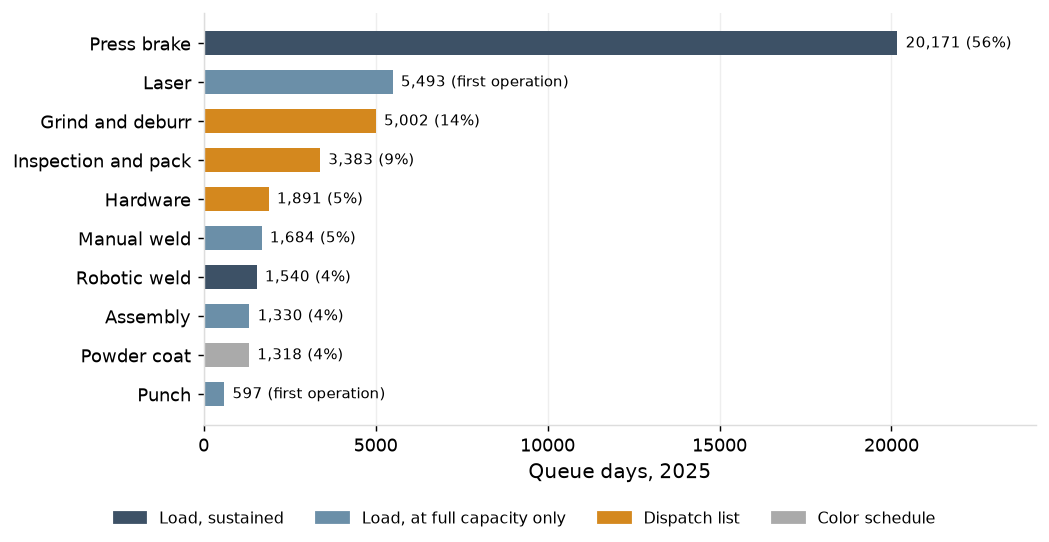
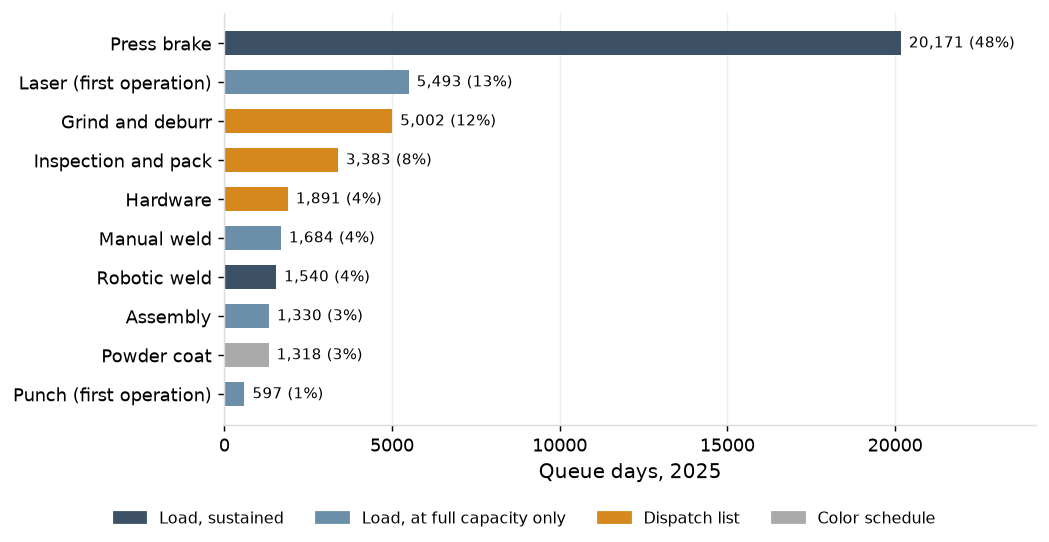
Capacity report: queue time per operation by work center; queue days counted at all ten work centers; Section 1 retitled

diff --git a/docs/reports/capacity_constraints_and_setups.html b/docs/reports/capacity_constraints_and_setups.html
@@ -55,8 +55,8 @@ nav.toc a.sub { font-size: 12px; padding-left: 22px; }
 @media print { nav.toc { display: none; } .layout { display: block; max-width: none; padding: 0; } .content { max-width: none; padding: 0; } }
 </style></head>
 <body><div class="page-header"><h1>Report: Capacity, Constraints and Setups</h1><div class="sub">Created by Brian Davis, 2026</div></div>
-<div class="layout"><nav class="toc"><div class="toc-title">Contents</div><a href="#f1">1. Capacity Across the Shop</a><a href="#f2">2. Load and Queue Time</a><a href="#f3">3. Brake Hours: Setups, Standards and the Peak</a><a href="#appendix">Appendix</a></nav>
-<main class="content"><h2 id='f1'>1. Capacity Across the Shop</h2>
+<div class="layout"><nav class="toc"><div class="toc-title">Contents</div><a href="#f1">1. Capacity and Constraints</a><a href="#f2">2. Load and Queue Time</a><a href="#f3">3. Brake Hours: Setups, Standards and the Peak</a><a href="#appendix">Appendix</a></nav>
+<main class="content"><h2 id='f1'>1. Capacity and Constraints</h2>
 <p>The shop's floor consists of 25 machines across ten work centers. The press brakes are the busiest, with 16,268 machine hours in 2025 (36% of total). Machine hours break into operations per day and hours per operation, shown in routing order below.</p>
 <div class='chart-title'>Daily Floor Activity by Work Center, 2025</div><img alt="Daily Floor Activity by Work Center, 2025" src="../figures/capacity_floor_activity.png?v=b2993651">
 <p>The press brakes consistently run at the highest utilization of any work center (average of 83% 2023-2025), followed by the robotic weld cell (71%). Across all work centers, average utilization increased from 62% in 2023 to 75% in 2025 as released work grew 20% (4,315 to 5,157 jobs a year; brake standard hours up 21%) across the same set of machines and shifts.</p>
@@ -66,17 +66,19 @@ nav.toc a.sub { font-size: 12px; padding-left: 22px; }
 <div class='chart-title'>Utilization and Machine Uptime by Work Center</div><img alt="Utilization and Machine Uptime by Work Center" src="../figures/constraint_utilization_uptime.png?v=348d825a">
 <p>With so little buffer, an ordinary heavy week can take the brakes and the weld cell to maximum utilization: they ran at or above 95% utilization in 46% and 38% of weeks in 2025, far more often than any other work center. Average queue time rises sharply when a work center is operating near maximum utilization. This is explored in more detail in Section 2. See Appendix Table <a href='#t2'>2</a> for additional detail.</p>
 <div class='chart-title'>Share of weeks at or above 95% utilization, 2025</div><img alt="Share of weeks at or above 95% utilization, 2025" src="../figures/capacity_hot_week_share.png?v=5980e1e8">
-<div class='chart-title'>Queue Time in Weeks at or Above 95% Utilization vs. Other Weeks, 2023 to 2025</div><img alt="Queue Time in Weeks at or Above 95% Utilization vs. Other Weeks, 2023 to 2025" src="../figures/capacity_queue_in_hot_weeks_year.png?v=3f459c1b">
-<p>Throughout 2025, jobs spent 36,318 days waiting in queue at a work center (excluding first operations at the lasers and the punch). The press brake station accounted for 56% of those days, which is a function of its consistently high utilization, as well as its volume of operations. There were 5,692 press brake operations in 2025 (20% of total). The robotic weld cell, which also ran at high utilization, accounted for less than 5% of queue days, because only 423 operations (1.5% of total) passed through it.</p>
-<div class='chart-title'>Share of queue days by work center, 2025</div><img alt="Share of queue days by work center, 2025" src="../figures/capacity_share_of_queue_days.png?v=c9f86cef">
-<p>The press brakes are therefore the shop's primary constraint on three counts: the highest utilization with the least buffer, the most weeks spent at maximum utilization, and more than half of all queue days. The robotic weld cell shares the first two and constrains the enclosure work that crosses it. These stations are examined in more detail throughout this report.</p>
+<div class='chart-title'>Queue Time in Weeks at or Above 95% Utilization vs. Other Weeks</div><img alt="Queue Time in Weeks at or Above 95% Utilization vs. Other Weeks" src="../figures/capacity_queue_in_hot_weeks_year.png?v=3f459c1b">
+<p>Throughout 2025, jobs spent 42,408 days waiting in queue at a work center. The press brake station accounted for 48% of those days, which is a function of its consistently high utilization, as well as its volume of operations. There were 5,692 press brake operations in 2025 (20% of total). The robotic weld cell, which also ran at high utilization, accounted for less than 5% of queue days, because only 423 operations (1.5% of total) passed through it.</p>
+<div class='chart-title'>Share of queue days by work center, 2025</div><img alt="Share of queue days by work center, 2025" src="../figures/capacity_share_of_queue_days.png?v=2bf239e9">
+<p>The press brakes are therefore the shop's primary constraint on three counts: the highest utilization with the least buffer, the most weeks spent at maximum utilization, and nearly half of all queue days. The robotic weld cell shares the first two and constrains the enclosure work that crosses it. These stations are examined in more detail throughout this report.</p>
 <h2 id='f2'>2. Load and Queue Time</h2>
+<p>A job's wait at a work center is set in one of three ways, and the shape of the wait shows which: load-set waits at the brakes and the robotic weld cell have long tails, list-set waits at grind and deburr, inspection and pack and hardware are tight around the next morning, and the rest fall between.</p>
+<div class='chart-title'>Queue Time per Operation by Work Center and What Sets the Wait, 2025</div><img alt="Queue Time per Operation by Work Center and What Sets the Wait, 2025" src="../figures/capacity_queue_time_shape.png?v=8d64ebbc">
 <p>At each station, average queue time was sharply higher when it was operating near maximum utilization compared to the other weeks of the year. The gap is smallest at the press brakes (2.4 days against 1.7, 1.4x) not because their wait is least sensitive to load but because their other weeks are also heavily loaded, so the comparison is narrower than other work centers. This section lays out the sensitivity of queue time against load at the press brakes and robotic weld stations.</p>
 <p><a href='#f1'>Section 1</a> showed that queue time rises when a work center is full and that the press brakes and the robotic weld cell are the two that are full most often and carry the waiting that costs the shop days. This section shows how queue time builds at each as load rises, and what that makes the lever. The curve is the queue time expected at each level of utilization for the number of machines at the work center, fitted on rolling 13-week windows from 2023 to 2025 and drawn only over the range of utilization the work center has run at in those windows; for the brakes the fit explains 45% of the variation in the windowed queue with a rank correlation of 0.88, while a single week's queue carries the backlog of the weeks before it, which is why the fit is made on windows rather than weeks.</p>
 <h3 id='f2_1'>The press brakes</h3>
 <p>On the fitted curve the brake queue time is 0.67 days per operation at 75% utilization, 1.51 at 85%, 2.61 at 90% and 3.44 at 92%; the measured queue time is 3.54 at 91% for the year and 1.81 at 91% in Q2-Q4. Week by week, the brake queue time steps from about 0.5 days below 85% utilization to 2.7 above it and does not settle back. The brake queue time's 90th percentile was 17.1 and 9.1 days in Q1 and Q2 2025 and 2.8 and 3.0 in Q3 and Q4; under 5 days in every quarter is the mark the levers in this report are measured against. See Appendix Tables <a href='#t3'>3</a>, <a href='#t4'>4</a> and <a href='#t5'>5</a> for additional detail.</p>
 <div class='chart-title'>Queue Time Against Utilization: Press brake (5 machines), 2023 to 2025</div><img alt="Queue Time Against Utilization: Press brake (5 machines), 2023 to 2025" src="../figures/capacity_queue_curve_press_brake.png?v=47c2d662">
-<p>The brakes run at 91% and carry 56% of all queue time (<a href='lead_time_and_late_jobs.html'>Flow and On-time Delivery</a>). B1 and B2 run at 92.2% and 91.9% for the year and 93.7% and 93.7% in Q2-Q4, with the shortest queue times of the five (mean 2.7 and 2.8 days): precision work goes to them first and the hot list sends expedited work to them. B3 to B5 carry the tail: mean 3.7 to 4.1 days and 90th percentile 11.6 to 12.7. Over all hours worked, B5 carries the highest load of the five for the year; in Q2-Q4 B1 and B2 do. On crewed weekday shifts only, B1 and B2 run at 96.6% and 96.3% for the year. See Appendix Tables <a href='#t6'>6</a> and <a href='#t7'>7</a> for additional detail.</p>
+<p>The brakes run at 91% and carry 48% of all queue days. B1 and B2 run at 92.2% and 91.9% for the year and 93.7% and 93.7% in Q2-Q4, with the shortest queue times of the five (mean 2.7 and 2.8 days): precision work goes to them first and the hot list sends expedited work to them. B3 to B5 carry the tail: mean 3.7 to 4.1 days and 90th percentile 11.6 to 12.7. Over all hours worked, B5 carries the highest load of the five for the year; in Q2-Q4 B1 and B2 do. On crewed weekday shifts only, B1 and B2 run at 96.6% and 96.3% for the year. See Appendix Tables <a href='#t6'>6</a> and <a href='#t7'>7</a> for additional detail.</p>
 <div class='chart-title'>Utilization and Queue Time by Brake, 2025</div><img alt="Utilization and Queue Time by Brake, 2025" src="../figures/capacity_utilization_and_queue_by_brake.png?v=2c53b46a">
 <p>The brake queue carries over from week to week because arrivals are uneven and run times vary: daily arrivals have a coefficient of variation of 0.50, Mondays bring 1.77 times the daily mean and the top customer's month-end 1.73 times, and run time per operation varies far more than setup time (coefficient of variation 2.14 against 0.89). Second-shift absence is 7% against 3% on first shift. See Appendix Tables <a href='#t8'>8</a> and <a href='#t9'>9</a> for additional detail.</p>
 <h3 id='f2_2'>The robotic weld cell</h3>
@@ -84,8 +86,8 @@ nav.toc a.sub { font-size: 12px; padding-left: 22px; }
 <div class='chart-title'>Queue Time Against Utilization: Robotic weld (1 machine), 2023 to 2025</div><img alt="Queue Time Against Utilization: Robotic weld (1 machine), 2023 to 2025" src="../figures/capacity_queue_curve_robotic_weld.png?v=6113122f">
 <p>Enclosures are 78% of its hours, weldments 10% and chassis 6%. Its setups run at 1.03 of standard and its run time at 1.06, so the cell's queue is load, not standards. See Appendix Table <a href='#t10'>10</a> for additional detail.</p>
 <h3 id='f2_3'>The other work centers</h3>
-<p>The other work centers hold 40% of queue days between them, and the wait at each is set in one of three ways. At grind and deburr, inspection and pack and hardware (28% of queue days) the wait does not change with load; it is set by the daily dispatch list. At assembly, the manual weld bays and the punch (8% of queue days at the first two; the punch is a first operation and outside that count) the wait is flat until the machines are full and steps up only then (Table 3), which they reach in 11, 3 and 10 weeks of 52; the lasers behave the same way and reach full load only at the year-end build (Flow and On-time Delivery). At the powder line (4% of queue days) the wait is the color schedule. See Appendix Tables <a href='#t11'>11</a>, <a href='#t12'>12</a>, <a href='#t13'>13</a> and <a href='#t14'>14</a> for additional detail.</p>
-<div class='chart-title'>Queue Days by Work Center and What Sets the Wait, 2025</div><img alt="Queue Days by Work Center and What Sets the Wait, 2025" src="../figures/capacity_queue_days_by_kind.png?v=fea5d7a2"><div class='caption'>Shares are of the 36,318 queue days after the first operation; the lasers' and the punch's first-operation queue days are shown beside them and are not in that total.</div>
+<p>The other work centers hold 49% of queue days between them, and the wait at each is set in one of three ways. At grind and deburr, inspection and pack and hardware (24% of queue days) the wait does not change with load; it is set by the daily dispatch list. At assembly, the manual weld bays and the punch (9% of queue days) the wait is flat until the machines are full and steps up only then (Table 3), which they reach in 11, 3 and 10 weeks of 52; the lasers (13% of queue days) behave the same way and reach full load only at the year-end build (<a href='lead_time_and_late_jobs.html'>Flow and On-time Delivery</a>). At the powder line (3% of queue days) the wait is the color schedule. See Appendix Tables <a href='#t11'>11</a>, <a href='#t12'>12</a>, <a href='#t13'>13</a> and <a href='#t14'>14</a> for additional detail.</p>
+<div class='chart-title'>Queue Days by Work Center and What Sets the Wait, 2025</div><img alt="Queue Days by Work Center and What Sets the Wait, 2025" src="../figures/capacity_queue_days_by_kind.png?v=22a0666b"><div class='caption'>The lasers' and the punch's queue days are those of their first operations.</div>
 <p>At the three dispatch-list work centers, whether an operation starts the day it arrives depends on the hour of arrival and not on how busy the work center is. Work arriving before 10:00 starts the same day nine times in ten; work arriving between 10:00 and 14:00, half of all arrivals, starts the same day about three times in ten and otherwise waits for the next morning; the 24% arriving after the shift ends always waits. The brakes show no such break. These next-day starts add 1.3 working days of lead time to a shipped job (1.4 in Q2-Q4). See Appendix Table <a href='#t15'>15</a> for additional detail.</p>
 <div class='chart-title'>Same-Day Start by Hour of Arrival, Dispatch-List Work Centers Against the Brakes, 2025</div><img alt="Same-Day Start by Hour of Arrival, Dispatch-List Work Centers Against the Brakes, 2025" src="../figures/capacity_same_day_start.png?v=a8342cec">
 <p>The powder line's wait is 1.03 days per operation for the color day, 1.8 to 1.9 days for the three colors run once a week; a third day for black was tested in <a href='options_tested.html'>Options Tested</a> and does not move on-time delivery. See Appendix Table <a href='#t16'>16</a> for additional detail.</p>
@@ -130,7 +132,7 @@ nav.toc a.sub { font-size: 12px; padding-left: 22px; }
 <h3 id='t8'>Table 8. Variability sources, 2025</h3><table class="data"><thead><tr><th>Source</th><th>Measure</th><th>Value, 2025</th></tr></thead><tbody><tr><td class="">Arrivals: jobs released per working day</td><td class="">coefficient of variation</td><td class="">0.50</td></tr><tr><td class="">Arrivals: Monday releases over the daily mean</td><td class="">ratio</td><td class="">1.77</td></tr><tr><td class="">Arrivals: top customer, last three working days of the month over its daily mean</td><td class="">ratio</td><td class="">1.73</td></tr><tr><td class="">Arrivals: releases per week</td><td class="">coefficient of variation</td><td class="">0.22</td></tr><tr><td class="">Brake setup time per operation (hours)</td><td class="">coefficient of variation</td><td class="">0.89</td></tr><tr><td class="">Brake setup actual over standard</td><td class="">coefficient of variation</td><td class="">0.90</td></tr><tr><td class="">Brake run time per operation (hours)</td><td class="">coefficient of variation</td><td class="">2.14</td></tr><tr><td class="">Brake setup and run per operation (hours)</td><td class="">coefficient of variation</td><td class="">1.38</td></tr><tr><td class="">Brake downtime hours per week</td><td class="">coefficient of variation</td><td class="">0.57</td></tr><tr><td class="">Brake downtime hours per event</td><td class="">coefficient of variation</td><td class="">0.47</td></tr><tr><td class="">Brake downtime share of scheduled hours</td><td class="">share</td><td class="">0.03</td></tr><tr><td class="">Absence, first shift: share of scheduled employee-days</td><td class="">share</td><td class="">0.03</td></tr><tr><td class="">Absence, first shift: daily rate</td><td class="">coefficient of variation</td><td class="">0.55</td></tr><tr><td class="">Absence, second shift: share of scheduled employee-days</td><td class="">share</td><td class="">0.07</td></tr><tr><td class="">Absence, second shift: daily rate</td><td class="">coefficient of variation</td><td class="">1.18</td></tr></tbody></table>
 <h3 id='t9'>Table 9. Brake queue time with the spread of setup time halved, and the inputs</h3><table class="data"><thead><tr><th>Period</th><th>Brake utilization</th><th>Queue time on the curve</th><th>Queue time with setup spread halved</th><th>Utilization giving the same queue time</th><th>Brake hours a week released</th></tr></thead><tbody><tr><td class="">2025</td><td class="">91.2%</td><td class="">3.08</td><td class="">2.98</td><td class="">91.5%</td><td class="">0.8</td></tr><tr><td class="">2025 Q2-Q4</td><td class="">90.8%</td><td class="">2.91</td><td class="">2.81</td><td class="">91.1%</td><td class="">0.9</td></tr></tbody></table><table class="data"><thead><tr><th>Input</th><th>Value</th></tr></thead><tbody><tr><td class="">Setup time per operation, coefficient of variation</td><td class="">0.95</td></tr><tr><td class="">Setup and run per operation, squared coefficient of variation</td><td class="">1.91</td></tr><tr><td class="">The same with setup spread halved</td><td class="">1.77</td></tr><tr><td class="">Daily arrivals at the brakes, variance over mean</td><td class="">2.16</td></tr><tr><td class="">Curve scale k</td><td class="">1.692</td></tr><tr><td class="">Curve scale with setup spread halved</td><td class="">1.635</td></tr><tr><td class="">Setup share of brake hours</td><td class="">37.2%</td></tr><tr><td class="">Scheduled brake hours a week net of downtime</td><td class="">343</td></tr></tbody></table>
 <h3 id='t10'>Table 10. The robotic weld cell: weeks by utilization band, hours by part family, setup and run against standard</h3><p><b>Weeks by utilization band, 2025</b></p><table class="data"><thead><tr><th>Utilization in the week</th><th>Weeks</th><th>Of which full five-day weeks</th><th>Operations</th><th>Queue time</th></tr></thead><tbody><tr><td class="">below 80%</td><td class="">18</td><td class="">17</td><td class="">142</td><td class="">1.78</td></tr><tr><td class="">80% to 85%</td><td class="">6</td><td class="">6</td><td class="">55</td><td class="">3.28</td></tr><tr><td class="">85% to 90%</td><td class="">6</td><td class="">6</td><td class="">65</td><td class="">5.17</td></tr><tr><td class="">90% to 95%</td><td class="">2</td><td class="">2</td><td class="">14</td><td class="">2.02</td></tr><tr><td class="">at or above 95%</td><td class="">20</td><td class="">15</td><td class="">147</td><td class="">5.05</td></tr></tbody></table><p><b>Hours by part family, 2025</b></p><table class="data"><thead><tr><th>Part family</th><th>Operations</th><th>Machine hours</th><th>Share of hours</th><th>Queue time</th></tr></thead><tbody><tr><td class="">Enclosure</td><td class="">309</td><td class="">1,255</td><td class="">78%</td><td class="">3.46</td></tr><tr><td class="">Weldment</td><td class="">58</td><td class="">158</td><td class="">10%</td><td class="">3.48</td></tr><tr><td class="">Chassis</td><td class="">27</td><td class="">100</td><td class="">6%</td><td class="">4.00</td></tr><tr><td class="">Assembly</td><td class="">18</td><td class="">57</td><td class="">4%</td><td class="">4.96</td></tr><tr><td class="">Panel</td><td class="">4</td><td class="">24</td><td class="">2%</td><td class="">5.58</td></tr><tr><td class="">Bracket</td><td class="">7</td><td class="">13</td><td class="">1%</td><td class="">6.86</td></tr></tbody></table><p><b>Setup and run against standard, 2025</b></p><table class="data"><thead><tr><th></th><th>Hours</th><th>Standard hours</th><th>Hours over standard</th></tr></thead><tbody><tr><td class="">Setup</td><td class="">503</td><td class="">487</td><td class="">1.03</td></tr><tr><td class="">Run</td><td class="">1,104</td><td class="">1,046</td><td class="">1.06</td></tr></tbody></table>
-<h3 id='t11'>Table 11. Queue days by work center and what sets the wait, 2025</h3><table class="data"><thead><tr><th>Work center</th><th>What sets the wait</th><th>Operations after the first</th><th>Queue days</th><th>Share</th></tr></thead><tbody><tr><td class="">Press brake</td><td class="">Load, sustained</td><td class="">5,692</td><td class="">20,171</td><td class="">56%</td></tr><tr><td class="">Grind and deburr</td><td class="">Dispatch list</td><td class="">5,680</td><td class="">5,002</td><td class="">14%</td></tr><tr><td class="">Inspection and pack</td><td class="">Dispatch list</td><td class="">5,241</td><td class="">3,383</td><td class="">9%</td></tr><tr><td class="">Hardware</td><td class="">Dispatch list</td><td class="">2,167</td><td class="">1,891</td><td class="">5%</td></tr><tr><td class="">Manual weld</td><td class="">Load, at full capacity only</td><td class="">1,568</td><td class="">1,684</td><td class="">5%</td></tr><tr><td class="">Robotic weld</td><td class="">Load, sustained</td><td class="">423</td><td class="">1,540</td><td class="">4%</td></tr><tr><td class="">Assembly</td><td class="">Load, at full capacity only</td><td class="">695</td><td class="">1,330</td><td class="">4%</td></tr><tr><td class="">Powder coat</td><td class="">Color schedule</td><td class="">2,367</td><td class="">1,318</td><td class="">4%</td></tr><tr><td class="">All</td><td class=""></td><td class="">23,833</td><td class="">36,318</td><td class="">100%</td></tr></tbody></table><p><b>First operations, outside the count above</b></p><table class="data"><thead><tr><th>Work center</th><th>What sets the wait</th><th>First-operation queue days</th></tr></thead><tbody><tr><td class="">Laser</td><td class="">Load, at full capacity only</td><td class="">5,493</td></tr><tr><td class="">Punch</td><td class="">Load, at full capacity only</td><td class="">597</td></tr></tbody></table>
+<h3 id='t11'>Table 11. Queue days by work center and what sets the wait, 2025</h3><table class="data"><thead><tr><th>Work center</th><th>What sets the wait</th><th>Operations</th><th>Queue days</th><th>Share</th></tr></thead><tbody><tr><td class="">Press brake</td><td class="">Load, sustained</td><td class="">5,692</td><td class="">20,171</td><td class="">48%</td></tr><tr><td class="">Laser (first operation)</td><td class="">Load, at full capacity only</td><td class="">4,378</td><td class="">5,493</td><td class="">13%</td></tr><tr><td class="">Grind and deburr</td><td class="">Dispatch list</td><td class="">5,680</td><td class="">5,002</td><td class="">12%</td></tr><tr><td class="">Inspection and pack</td><td class="">Dispatch list</td><td class="">5,241</td><td class="">3,383</td><td class="">8%</td></tr><tr><td class="">Hardware</td><td class="">Dispatch list</td><td class="">2,167</td><td class="">1,891</td><td class="">4%</td></tr><tr><td class="">Manual weld</td><td class="">Load, at full capacity only</td><td class="">1,568</td><td class="">1,684</td><td class="">4%</td></tr><tr><td class="">Robotic weld</td><td class="">Load, sustained</td><td class="">423</td><td class="">1,540</td><td class="">4%</td></tr><tr><td class="">Assembly</td><td class="">Load, at full capacity only</td><td class="">695</td><td class="">1,330</td><td class="">3%</td></tr><tr><td class="">Powder coat</td><td class="">Color schedule</td><td class="">2,367</td><td class="">1,318</td><td class="">3%</td></tr><tr><td class="">Punch (first operation)</td><td class="">Load, at full capacity only</td><td class="">820</td><td class="">597</td><td class="">1%</td></tr><tr><td class="">All</td><td class=""></td><td class=""></td><td class="">42,408</td><td class="">100%</td></tr></tbody></table>
 <h3 id='t12'>Table 12. Assembly: hot weeks, where its work comes from, and the weekly correlations</h3><p><b>By year</b></p><table class="data"><thead><tr><th>Year</th><th>Utilization</th><th>Queue time</th><th>Weeks at or above 95%</th><th>Operations</th></tr></thead><tbody><tr><td class="">2023*</td><td class="">52%</td><td class="">1.28</td><td class="">0 of 51</td><td class="">546</td></tr><tr><td class="">2024</td><td class="">60%</td><td class="">1.05</td><td class="">9 of 52</td><td class="">576</td></tr><tr><td class="">2025</td><td class="">69%</td><td class="">1.91</td><td class="">11 of 52</td><td class="">695</td></tr></tbody></table><p>* 2023 includes the first four weeks of the record, when jobs already in process raise the queue time; from the week of January 30 the 2023 queue time is 0.85 days per operation.</p><p><b>Weeks at or above 95% against the other weeks, 2025</b></p><table class="data"><thead><tr><th></th><th>Weeks at or above 95%</th><th>Other weeks</th></tr></thead><tbody><tr><td class="">Weeks</td><td class="">11</td><td class="">41</td></tr><tr><td class="">Utilization</td><td class="">99%</td><td class="">61%</td></tr><tr><td class="">Queue time</td><td class="">4.35</td><td class="">1.09</td></tr><tr><td class="">Arrivals a week</td><td class="">14.5</td><td class="">12.8</td></tr><tr><td class="">Arrivals a week on jobs routed through the robotic weld cell</td><td class="">2.7</td><td class="">2.1</td></tr><tr><td class="">Robotic weld cell share of arrivals</td><td class="">19%</td><td class="">16%</td></tr><tr><td class="">Machine hours per operation</td><td class="">4.37</td><td class="">3.62</td></tr></tbody></table><p><b>Where assembly's work comes from, 2025</b></p><table class="data"><thead><tr><th>Weld on the job's routing</th><th>Operations</th><th>Share of assembly hours</th><th>Queue time</th><th>90th percentile</th></tr></thead><tbody><tr><td class="">No weld</td><td class="">375</td><td class="">56%</td><td class="">2.23</td><td class="">6.7</td></tr><tr><td class="">Manual weld bays</td><td class="">203</td><td class="">31%</td><td class="">1.48</td><td class="">3.9</td></tr><tr><td class="">Robotic weld cell</td><td class="">117</td><td class="">13%</td><td class="">1.64</td><td class="">5.5</td></tr></tbody></table><table class="data"><thead><tr><th>Operation before assembly</th><th>Share of assembly operations</th></tr></thead><tbody><tr><td class="">Powder coat</td><td class="">47%</td></tr><tr><td class="">Outside processing</td><td class="">25%</td></tr><tr><td class="">Grind and deburr</td><td class="">15%</td></tr><tr><td class="">Press brake</td><td class="">9%</td></tr><tr><td class="">Hardware</td><td class="">5%</td></tr></tbody></table><p><b>Hours by part family, 2025</b></p><table class="data"><thead><tr><th>Part family</th><th>Operations</th><th>Machine hours</th><th>Share of hours</th></tr></thead><tbody><tr><td class="">Assembly</td><td class="">531</td><td class="">2,100</td><td class="">79%</td></tr><tr><td class="">Enclosure</td><td class="">164</td><td class="">547</td><td class="">21%</td></tr></tbody></table><p><b>Weekly correlations</b></p><table class="data"><thead><tr><th>Across the weeks of 2025</th><th>Correlation</th></tr></thead><tbody><tr><td class="">Assembly utilization and assembly queue</td><td class="">0.64</td></tr><tr><td class="">Assembly utilization and arrivals in the week</td><td class="">0.45</td></tr><tr><td class="">Assembly utilization and arrivals from robotic weld routings</td><td class="">0.24</td></tr><tr><td class="">Assembly utilization and robotic weld cell hours, same week</td><td class="">-0.11</td></tr><tr><td class="">The same, robotic weld cell hours one week earlier</td><td class="">-0.04</td></tr><tr><td class="">The same, two weeks earlier</td><td class="">0.02</td></tr></tbody></table>
 <h3 id='t13'>Table 13. Laser weeks, November and December 2024</h3><table class="data"><thead><tr><th>Week starting</th><th>Working weekdays</th><th>Laser utilization</th><th>First operations started</th><th>First-operation queue time, mean</th><th>90th percentile</th></tr></thead><tbody><tr><td class="">2024-11-04</td><td class="">5</td><td class="">73%</td><td class="">82</td><td class="">0.56</td><td class="">1.8</td></tr><tr><td class="">2024-11-11</td><td class="">5</td><td class="">98%</td><td class="">62</td><td class="">1.90</td><td class="">4.6</td></tr><tr><td class="">2024-11-18</td><td class="">5</td><td class="">95%</td><td class="">114</td><td class="">2.54</td><td class="">6.4</td></tr><tr><td class="">2024-11-25</td><td class="">3</td><td class="">93%</td><td class="">27</td><td class="">1.37</td><td class="">5.6</td></tr><tr><td class="">2024-12-02</td><td class="">5</td><td class="">89%</td><td class="">126</td><td class="">3.96</td><td class="">10.3</td></tr><tr><td class="">2024-12-09</td><td class="">5</td><td class="">94%</td><td class="">107</td><td class="">2.85</td><td class="">7.9</td></tr><tr><td class="">2024-12-16</td><td class="">5</td><td class="">84%</td><td class="">113</td><td class="">4.95</td><td class="">13.6</td></tr></tbody></table>
 <h3 id='t14'>Table 14. The lasers: first-operation queue time and material wait by month, and the three machines</h3><p><b>By month, 2025</b></p><table class="data"><thead><tr><th>Month of the first cut</th><th>First operations</th><th>First-operation queue time, mean</th><th>90th percentile</th><th>Material wait, mean</th><th>First operations with a material wait</th><th>Laser utilization</th></tr></thead><tbody><tr><td class="">January</td><td class="">458</td><td class="">4.67</td><td class="">14.2</td><td class="">1.12</td><td class="">39%</td><td class="">72%</td></tr><tr><td class="">February</td><td class="">386</td><td class="">0.93</td><td class="">3.0</td><td class="">1.00</td><td class="">35%</td><td class="">80%</td></tr><tr><td class="">March</td><td class="">337</td><td class="">0.70</td><td class="">2.2</td><td class="">1.08</td><td class="">39%</td><td class="">69%</td></tr><tr><td class="">April</td><td class="">343</td><td class="">0.90</td><td class="">2.7</td><td class="">0.76</td><td class="">30%</td><td class="">68%</td></tr><tr><td class="">May</td><td class="">381</td><td class="">0.86</td><td class="">2.4</td><td class="">0.74</td><td class="">37%</td><td class="">73%</td></tr><tr><td class="">June</td><td class="">349</td><td class="">0.61</td><td class="">2.0</td><td class="">0.76</td><td class="">34%</td><td class="">65%</td></tr><tr><td class="">July</td><td class="">319</td><td class="">0.85</td><td class="">2.8</td><td class="">1.09</td><td class="">42%</td><td class="">67%</td></tr><tr><td class="">August</td><td class="">326</td><td class="">1.31</td><td class="">4.3</td><td class="">0.81</td><td class="">33%</td><td class="">81%</td></tr><tr><td class="">September</td><td class="">380</td><td class="">0.83</td><td class="">2.4</td><td class="">0.83</td><td class="">37%</td><td class="">75%</td></tr><tr><td class="">October</td><td class="">408</td><td class="">0.62</td><td class="">1.7</td><td class="">0.80</td><td class="">34%</td><td class="">72%</td></tr><tr><td class="">November</td><td class="">336</td><td class="">0.58</td><td class="">1.5</td><td class="">0.71</td><td class="">35%</td><td class="">80%</td></tr><tr><td class="">December</td><td class="">176</td><td class="">2.56</td><td class="">8.0</td><td class="">0.99</td><td class="">36%</td><td class="">88%</td></tr><tr><td class="">2025</td><td class="">4,199</td><td class="">1.31</td><td class="">4.0</td><td class="">0.89</td><td class="">36%</td><td class=""></td></tr><tr><td class="">2025 Q2-Q4</td><td class="">3,018</td><td class="">0.91</td><td class="">2.9</td><td class="">0.82</td><td class="">35%</td><td class=""></td></tr></tbody></table><p><b>The three machines, 2025</b></p><table class="data"><thead><tr><th>Laser</th><th>Scheduled hours</th><th>Machine hours</th><th>Share of laser hours</th><th>Utilization</th><th>Uptime</th><th>Run hours</th><th>Run standard hours</th><th>Run hours over standard</th><th>Share of laser standard hours</th></tr></thead><tbody><tr><td class="">L1</td><td class="">1,992</td><td class="">1,701</td><td class="">23%</td><td class="">91%</td><td class="">94%</td><td class="">1,508</td><td class="">1,502</td><td class="">1.00</td><td class="">20%</td></tr><tr><td class="">L2</td><td class="">3,984</td><td class="">2,751</td><td class="">38%</td><td class="">71%</td><td class="">97%</td><td class="">2,410</td><td class="">2,967</td><td class="">0.81</td><td class="">40%</td></tr><tr><td class="">L3</td><td class="">3,984</td><td class="">2,790</td><td class="">39%</td><td class="">72%</td><td class="">98%</td><td class="">2,435</td><td class="">3,004</td><td class="">0.81</td><td class="">40%</td></tr><tr><td class="">All</td><td class="">9,960</td><td class="">7,242</td><td class="">100%</td><td class=""></td><td class=""></td><td class="">6,353</td><td class="">7,472</td><td class="">0.85</td><td class="">100%</td></tr></tbody></table>

diff --git a/analytics/reports/capacity_constraints_and_setups.py b/analytics/reports/capacity_constraints_and_setups.py
@@ -161,11 +161,11 @@ def fig_hot_year():
     ax.set_ylabel("Queue time in days")
     f.legend(*ax.get_legend_handles_labels(), frameon=False, fontsize=9, ncol=2, loc="lower center")
     f.tight_layout(rect=(0, 0.06, 1, 1))
-    return save(f, "capacity_queue_in_hot_weeks_year", "Queue Time in Weeks at or Above 95% Utilization vs. Other Weeks, 2023 to 2025")
+    return save(f, "capacity_queue_in_hot_weeks_year", "Queue Time in Weeks at or Above 95% Utilization vs. Other Weeks")
 
 
 def fig_queue_days():
-    d = QDAYS["share_of_queue"]
+    d = (ALL_QDAYS / ALL_QDAYS.sum()).sort_values(ascending=False)
     x = np.arange(len(d))
     v = sig(d.to_numpy(dtype=float) * 100)
     f, ax = fig(h=3.5)
@@ -244,6 +244,33 @@ SETS = {"press_brake": "Load, sustained", "robotic_weld": "Load, sustained", "as
 SET_COLOR = {"Load, sustained": BRAND_BLUE, "Load, at full capacity only": ACCENT, "Dispatch list": AMBER, "Color schedule": GREY}
 FIRST_OPS = SC.first_operation_queue_days(X)
 ALL_QDAYS = pd.concat([QDAYS["queue_days"], FIRST_OPS]).sort_values()
+ALL_SHARE = ALL_QDAYS / ALL_QDAYS.sum()               # the lasers and the punch on their first-operation queue
+
+
+QSHAPE = SC.queue_per_operation(X)
+FIRST_OP_LABEL = {w: f"{WC[w]} (first operation)" for w in ("laser", "punch")}
+
+
+def fig_queue_shape():
+    """Mean queue time per operation as a bar and its 90th percentile as a marker, each row in the colour of what sets its wait."""
+    d = QSHAPE
+    y = np.arange(len(d))
+    f, ax = fig(h=4.4, grid="x")
+    mean, p90 = sig(d["mean"].to_numpy(dtype=float)), sig(d["p90"].to_numpy(dtype=float))
+    ax.barh(y, mean, height=0.6, color=[SET_COLOR[SETS[w]] for w in d.index])
+    ax.plot(p90, y, linestyle="none", marker="D", markersize=6, color="#222222", label="90th percentile")
+    for yi, m_, p_ in zip(y, mean, p90):
+        ax.text(m_ / 2, yi, f"{m_:.2f}", ha="center", va="center", fontsize=7.5, color="white")          # inside the bar, clear of the marker
+        ax.text(p_ + float(p90.max()) * 0.015, yi, f"{p_:.1f}", ha="left", va="center", fontsize=8.5)
+    ax.set_yticks(y)
+    ax.set_yticklabels([FIRST_OP_LABEL.get(w, WC[w]) for w in d.index])
+    ax.set_xlim(0, float(p90.max()) * 1.1)
+    ax.set_xlabel("Working days per operation")
+    kinds = list(SET_COLOR)
+    marker = ax.get_legend_handles_labels()
+    f.legend([Patch(color=SET_COLOR[k]) for k in kinds] + marker[0], kinds + marker[1], frameon=False, fontsize=8.5, ncol=5, loc="lower center")
+    f.tight_layout(rect=(0, 0.06, 1, 1))
+    return save(f, "capacity_queue_time_shape", f"Queue Time per Operation by Work Center and What Sets the Wait, {YEAR}")
 
 
 def fig_queue_days_by_kind():
@@ -252,12 +279,12 @@ def fig_queue_days_by_kind():
     y = np.arange(len(d))
     f, ax = fig(h=4.2, grid="x")
     ax.barh(y, sig(d.to_numpy(dtype=float)), height=0.62, color=[SET_COLOR[SETS[w]] for w in d.index])
-    total = float(QDAYS["queue_days"].sum())
+    total = float(d.sum())
     for yi, (w, v) in zip(y, d.items()):
-        label = f"{v:,.0f} ({v / total * 100:.0f}%)" if w in QDAYS.index else f"{v:,.0f} (first operation)"
+        label = f"{v:,.0f} ({v / total * 100:.0f}%)"
         ax.text(v + float(d.max()) * 0.012, yi, label, ha="left", va="center", fontsize=8.5)
     ax.set_yticks(y)
-    ax.set_yticklabels([WC[w] for w in d.index])
+    ax.set_yticklabels([FIRST_OP_LABEL.get(w, WC[w]) for w in d.index])
     ax.set_xlim(0, float(d.max()) * 1.2)
     ax.set_xlabel(f"Queue days, {YEAR}")
     kinds = list(SET_COLOR)
@@ -307,12 +334,11 @@ def fig_peak():
 
 
 def t_qdays():
-    total = float(QDAYS["queue_days"].sum())
-    rows = [[WC[w], SETS[w], n0(r["operations"]), n0(r["queue_days"]), pct(r["queue_days"] / total, 0)] for w, r in QDAYS.iterrows()]
-    rows.append(["All", "", n0(QDAYS["operations"].sum()), n0(total), "100%"])
-    a = table(pd.DataFrame(rows, columns=["Work center", "What sets the wait", "Operations after the first", "Queue days", "Share"]))
-    rows = [[WC[w], SETS[w], n0(v)] for w, v in FIRST_OPS.sort_values(ascending=False).items()]
-    return a + block("First operations, outside the count above", table(pd.DataFrame(rows, columns=["Work center", "What sets the wait", "First-operation queue days"])))
+    d = ALL_QDAYS.sort_values(ascending=False)
+    started = X["ops"].groupby("work_center").size()
+    rows = [[FIRST_OP_LABEL.get(w, WC[w]), SETS[w], n0(QDAYS.loc[w, "operations"] if w in QDAYS.index else started[w]), n0(v), pct(v / d.sum(), 0)] for w, v in d.items()]
+    rows.append(["All", "", "", n0(d.sum()), "100%"])
+    return table(pd.DataFrame(rows, columns=["Work center", "What sets the wait", "Operations", "Queue days", "Share"]))
 
 
 def t_peak():
@@ -543,7 +569,7 @@ def build():
     b = []
 
     # 1 ── capacity across the shop
-    b.append("<h2 id='f1'>1. Capacity Across the Shop</h2>")
+    b.append("<h2 id='f1'>1. Capacity and Constraints</h2>")
     act = ACTIVITY
     assert UY["machine"].idxmax() == "press_brake"
     b.append(f"<p>The shop's floor consists of {n0(act['machines'].sum())} machines across ten work centers. The press brakes are the busiest, with "
@@ -577,24 +603,31 @@ def build():
              f"{P(hot_share['press_brake'])} and {P(hot_share['robotic_weld'])} of weeks in {YEAR}, far more often than any other work center. Average queue time rises sharply when a work center is operating near maximum utilization. "
              f"This is explored in more detail in Section 2. {T.see('hot')}</p>")
     b.append(chart(f"Share of weeks at or above 95% utilization, {YEAR}", fig_hot_share()))
-    b.append(chart("Queue Time in Weeks at or Above 95% Utilization vs. Other Weeks, 2023 to 2025", fig_hot_year()))
-    assert QDAYS.index[0] == "press_brake" and QDAYS.loc["robotic_weld", "share_of_queue"] < 0.05 and QDAYS.loc["press_brake", "share_of_queue"] > 0.5
+    b.append(chart("Queue Time in Weeks at or Above 95% Utilization vs. Other Weeks", fig_hot_year()))
+    all_share = ALL_QDAYS / ALL_QDAYS.sum()
+    assert all_share.idxmax() == "press_brake" and all_share["robotic_weld"] < 0.05
     total_ops = len(ops)
-    b.append(f"<p>Throughout {YEAR}, jobs spent {n0(QDAYS['queue_days'].sum())} days waiting in queue at a work center (excluding first operations at the lasers "
-             f"and the punch). The press brake station accounted for {P(QDAYS.loc['press_brake', 'share_of_queue'])} of those days, which is a function of its "
-             f"consistently high utilization, as well as its volume of operations. There were {n0(QDAYS.loc['press_brake', 'operations'])} press brake operations in "
-             f"{YEAR} ({P(QDAYS.loc['press_brake', 'operations'] / total_ops)} of total). The robotic weld cell, which also ran at high utilization, accounted for "
+    b.append(f"<p>Throughout {YEAR}, jobs spent {n0(ALL_QDAYS.sum())} days waiting in queue at a work center. The press brake station accounted for "
+             f"{P(all_share['press_brake'])} of those days, which is a function of its consistently high utilization, as well as its volume of operations. There "
+             f"were {n0(QDAYS.loc['press_brake', 'operations'])} press brake operations in {YEAR} "
+             f"({P(QDAYS.loc['press_brake', 'operations'] / total_ops)} of total). The robotic weld cell, which also ran at high utilization, accounted for "
              f"less than 5% of queue days, because only {n0(QDAYS.loc['robotic_weld', 'operations'])} operations "
              f"({pct(QDAYS.loc['robotic_weld', 'operations'] / total_ops)} of total) passed through it.</p>")
     b.append(chart(f"Share of queue days by work center, {YEAR}", fig_queue_days()))
     b.append("<p>The press brakes are therefore the shop's primary constraint on three counts: the highest utilization with the least buffer, the most weeks spent at "
-             "maximum utilization, and more than half of all queue days. The robotic weld cell shares the first two and constrains the enclosure work that crosses "
+             "maximum utilization, and nearly half of all queue days. The robotic weld cell shares the first two and constrains the enclosure work that crosses "
              "it. These stations are examined in more detail throughout this report.</p>")
 
     # 2 ── load and queue time
     b.append("<h2 id='f2'>2. Load and Queue Time</h2>")
     fits = C.FITS.set_index("work_center")
     at90 = fits["queue_at_0.90"]
+    lists = QSHAPE.loc[SC.LIST_CENTERS]
+    assert set(QSHAPE["p90"].sort_values(ascending=False).index[:2]) == set(LEAD_TWO) and lists["p90"].max() < 2.5
+    b.append("<p>A job's wait at a work center is set in one of three ways, and the shape of the wait shows which: load-set waits at the brakes and the robotic "
+             "weld cell have long tails, list-set waits at grind and deburr, inspection and pack and hardware are tight around the next morning, and the rest fall "
+             "between.</p>")
+    b.append(chart(f"Queue Time per Operation by Work Center and What Sets the Wait, {YEAR}", fig_queue_shape()))
     hall = HALL[HALL["hot_weeks"] > 0]
     rise = hall["queue_hot"] / hall["queue_other"]
     assert (rise > 1.3).all() and rise.idxmin() == "press_brake"
@@ -629,7 +662,7 @@ def build():
     tail = MY.loc[["B3", "B4", "B5"]]
     top_y = MY.loc[C.BRAKES, "utilization"].sort_values(ascending=False).index.tolist()
     u1 = lambda x: f"{x * 100:.1f}%"
-    b.append(f"<p>The brakes run at {P(UY.loc['press_brake', 'utilization'])} and carry {P(QSHARE['press_brake'])} of all queue time ({link('lead')}). "
+    b.append(f"<p>The brakes run at {P(UY.loc['press_brake', 'utilization'])} and carry {P(ALL_SHARE['press_brake'])} of all queue days. "
              f"B1 and B2 run at {u1(MY.loc['B1', 'utilization'])} and {u1(MY.loc['B2', 'utilization'])} for the year and "
              f"{u1(MR.loc['B1', 'utilization'])} and {u1(MR.loc['B2', 'utilization'])} in {REST}, with the shortest queue times of the five "
              f"(mean {d1(MY.loc['B1', 'queue_mean'])} and {d1(MY.loc['B2', 'queue_mean'])} days): precision work goes to them first and the hot list sends "
@@ -664,20 +697,18 @@ def build():
              f"cell's queue is load, not standards. {T.see('robot')}</p>")
 
     b.append("<h3 id='f2_3'>The other work centers</h3>")
-    held = QDAYS["share_of_queue"]
+    held = ALL_SHARE
     stepc = ["assembly", "weld", "punch"]
-    assert "punch" not in held.index                 # the punch is a first operation, outside the count of queue days
     rest_share = 1 - held["press_brake"] - held["robotic_weld"]
     b.append(f"<p>The other work centers hold {P(rest_share)} of queue days between them, and the wait at each is set in one of three ways. At grind and deburr, "
              f"inspection and pack and hardware ({P(held[SC.LIST_CENTERS].sum())} of queue days) the wait does not change with load; it is set by the daily dispatch "
-             f"list. At assembly, the manual weld bays and the punch ({P(held['assembly'] + held['weld'])} of queue days at the first two; the punch is a first "
-             f"operation and outside that count) the wait is flat until the machines are full and steps up only then ({T.plain('bins')}), which they reach in "
+             f"list. At assembly, the manual weld bays and the punch ({P(held[stepc].sum())} of queue days) the wait is flat until the machines are full and steps up "
+             f"only then ({T.plain('bins')}), which they reach in "
              f"{int(HY.loc['assembly', 'hot_weeks'])}, {int(HY.loc['weld', 'hot_weeks'])} and {int(HY.loc['punch', 'hot_weeks'])} weeks of {int(HY['weeks'].iloc[0])}; "
-             f"the lasers behave the same way and reach full load only at the year-end build (Flow and On-time Delivery). At the powder line "
+             f"the lasers ({P(held['laser'])} of queue days) behave the same way and reach full load only at the year-end build ({link('lead')}). At the powder line "
              f"({P(held['powder_coat'])} of queue days) the wait is the color schedule. {T.see('qdays', 'assembly', 'laser_weeks', 'lasers')}</p>")
     b.append(chart(f"Queue Days by Work Center and What Sets the Wait, {YEAR}", fig_queue_days_by_kind())
-             + note(f"Shares are of the {n0(QDAYS['queue_days'].sum())} queue days after the first operation; the lasers' and the punch's first-operation queue days "
-                    f"are shown beside them and are not in that total."))
+             + note("The lasers' and the punch's queue days are those of their first operations."))
     early, mid_day, late = HOURS.iloc[:3], HOURS.iloc[3:5], HOURS.iloc[5:]
     same = lambda g: float((g["same_day"] * g["arrivals"]).sum() / g["arrivals"].sum())
     assert 0.85 <= same(early) < 0.95 and 0.25 <= same(mid_day) < 0.35 and 0.45 <= mid_day["share"].sum() <= 0.55
@@ -810,7 +841,7 @@ def build():
 
     b.append("<h2 id='appendix'>Appendix</h2>")
     b.append(T.appendix())
-    toc = [("f1", "1. Capacity Across the Shop"), ("f2", "2. Load and Queue Time"), ("f3", "3. Brake Hours: Setups, Standards and the Peak")]
+    toc = [("f1", "1. Capacity and Constraints"), ("f2", "2. Load and Queue Time"), ("f3", "3. Brake Hours: Setups, Standards and the Peak")]
     print(f"wrote {page('capacity', chr(10).join(b), toc)}: 3 sections, {len(T.order)} appendix tables")
     return T.order
 

diff --git a/analytics/constraint/screen.py b/analytics/constraint/screen.py
@@ -273,3 +273,12 @@ def first_operation_queue_days(D):
     """Queue days of first operations at the lasers and the punch in the year, which the count of queue days after the first operation leaves out."""
     w = D["uw"][(D["uw"]["week_year"] == YEAR) & D["uw"]["work_center"].isin(["laser", "punch"]) & D["uw"]["queue_mean"].notna()]
     return (w["queue_mean"] * w["operations"]).groupby(w["work_center"]).sum()
+
+
+def queue_per_operation(D):
+    """Mean and 90th-percentile queue time per operation by work center for the year; the lasers and the punch on their first-operation queue."""
+    later = q("select work_center, mean_queue_days as mean, p90_queue_days as p90 from marts.mart_queue_by_work_center where period = 'year'")
+    first = q(f"select o.work_center, avg(s.days) as mean, quantile_cont(s.days, 0.9) as p90 from intermediate.int_operation_queue o "
+              f"join intermediate.int_job_stage_days s using (job_id, op_seq) where o.is_first_op and s.stage = 'first-operation queue' "
+              f"and year(o.first_start) = {YEAR} group by 1")
+    return pd.concat([later, first]).set_index("work_center").sort_values("mean")
